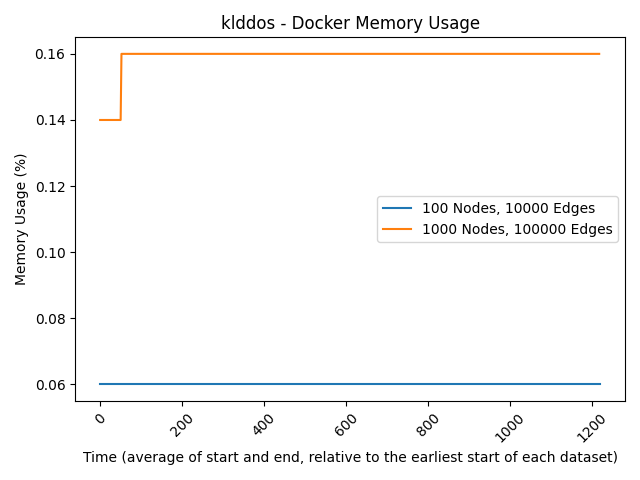
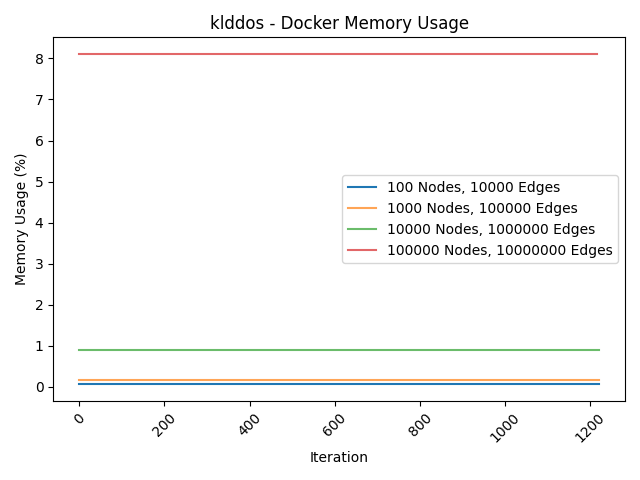
run through 100000N 10000000E

diff --git a/docker/resultViz.py b/docker/resultViz.py
@@ -9,15 +9,19 @@ def read_docker_stats_csv(file_path):
     df['Time'] = (df['start'] + df['end']) / 2
     return df
 
-def plot_cpu_usage(df1, df2, container_name, node_edge_counts, min_start_time1, min_start_time2):
+def plot_cpu_usage(df1, df2, df3, df4, container_name, node_edge_counts, min_start_time1, min_start_time2, min_start_time3, min_start_time4):
     container_df1 = df1[df1['Name'] == container_name]
     container_df2 = df2[df2['Name'] == container_name]
+    container_df3 = df3[df3['Name'] == container_name]
+    container_df4 = df4[df4['Name'] == container_name]
     
     plt.figure()
     plt.plot(container_df1['Time'] - min_start_time1, container_df1['CPU %'], label=f"{node_edge_counts[0]} Nodes, {node_edge_counts[1]} Edges")
-    plt.plot(container_df2['Time'] - min_start_time2, container_df2['CPU %'], label=f"{node_edge_counts[2]} Nodes, {node_edge_counts[3]} Edges")
-    
-    plt.xlabel('Time (average of start and end, relative to the earliest start of each dataset)')
+    plt.plot(container_df2['Time'] - min_start_time2, container_df2['CPU %'], label=f"{node_edge_counts[2]} Nodes, {node_edge_counts[3]} Edges", alpha=.7)
+    plt.plot(container_df3['Time'] - min_start_time3, container_df3['CPU %'], label=f"{node_edge_counts[4]} Nodes, {node_edge_counts[5]} Edges", alpha=.7)
+    plt.plot(container_df4['Time'] - min_start_time4, container_df4['CPU %'], label=f"{node_edge_counts[6]} Nodes, {node_edge_counts[7]} Edges", alpha=.7)
+
+    plt.xlabel('Iteration')
     plt.ylabel('CPU Usage (%)')
     plt.title(f'{container_name} - Docker CPU Usage')
     plt.legend()
@@ -25,21 +29,117 @@ def plot_cpu_usage(df1, df2, container_name, node_edge_counts, min_start_time1, 
     plt.tight_layout()
     plt.savefig(f'{container_name}_cpu_usage_comparison.png')
 
-def plot_memory_usage(df1, df2, container_name, node_edge_counts, min_start_time1, min_start_time2):
+
+def plot_memory_usage(df1, df2, df3, df4, container_name, node_edge_counts, min_start_time1, min_start_time2, min_start_time3, min_start_time4):
     container_df1 = df1[df1['Name'] == container_name]
     container_df2 = df2[df2['Name'] == container_name]
-    
+    container_df3 = df3[df3['Name'] == container_name]
+    container_df4 = df4[df4['Name'] == container_name]
+
     plt.figure()
     plt.plot(container_df1['Time'] - min_start_time1, container_df1['Mem %'], label=f"{node_edge_counts[0]} Nodes, {node_edge_counts[1]} Edges")
-    plt.plot(container_df2['Time'] - min_start_time2, container_df2['Mem %'], label=f"{node_edge_counts[2]} Nodes, {node_edge_counts[3]} Edges")
-    
-    plt.xlabel('Time (average of start and end, relative to the earliest start of each dataset)')
+    plt.plot(container_df2['Time'] - min_start_time2, container_df2['Mem %'], label=f"{node_edge_counts[2]} Nodes, {node_edge_counts[3]} Edges", alpha=.7)
+    plt.plot(container_df3['Time'] - min_start_time3, container_df3['Mem %'], label=f"{node_edge_counts[4]} Nodes, {node_edge_counts[5]} Edges", alpha=.7)
+    plt.plot(container_df4['Time'] - min_start_time4, container_df4['Mem %'], label=f"{node_edge_counts[6]} Nodes, {node_edge_counts[7]} Edges", alpha=.7)
+
+    plt.xlabel('Iteration')
     plt.ylabel('Memory Usage (%)')
     plt.title(f'{container_name} - Docker Memory Usage')
     plt.legend()
     plt.xticks(rotation=45)
     plt.tight_layout()
     plt.savefig(f'{container_name}_memory_usage_comparison.png')
+
+
+def plot_cpu_usage_rolling_avg(df1, df2, df3, df4, container_name, node_edge_counts, min_start_time1, min_start_time2, min_start_time3, min_start_time4, window_size=100):
+    container_df1 = df1[df1['Name'] == container_name]
+    container_df2 = df2[df2['Name'] == container_name]
+    container_df3 = df3[df3['Name'] == container_name]
+    container_df4 = df4[df4['Name'] == container_name]
+
+    rolling_avg1 = container_df1['CPU %'].rolling(window=window_size).mean()
+    rolling_avg2 = container_df2['CPU %'].rolling(window=window_size).mean()
+    rolling_avg3 = container_df3['CPU %'].rolling(window=window_size).mean()
+    rolling_avg4 = container_df4['CPU %'].rolling(window=window_size).mean()
+
+    plt.figure()
+    plt.plot(container_df1['Time'] - min_start_time1, rolling_avg1, label=f"{node_edge_counts[0]} Nodes, {node_edge_counts[1]} Edges")
+    plt.plot(container_df2['Time'] - min_start_time2, rolling_avg2, label=f"{node_edge_counts[2]} Nodes, {node_edge_counts[3]} Edges", alpha=.7)
+    plt.plot(container_df3['Time'] - min_start_time3, rolling_avg3, label=f"{node_edge_counts[4]} Nodes, {node_edge_counts[5]} Edges", alpha=.7)
+    plt.plot(container_df4['Time'] - min_start_time4, rolling_avg4, label=f"{node_edge_counts[6]} Nodes, {node_edge_counts[7]} Edges", alpha=.7)
+
+    plt.xlabel('Iteration')
+    plt.ylabel('CPU Usage Rolling Average (%)')
+    plt.title(f'{container_name} - Docker CPU Usage Rolling Average')
+    plt.legend()
+    plt.xticks(rotation=45)
+    plt.tight_layout()
+    plt.savefig(f'{container_name}_cpu_usage_rolling_avg_comparison.png')
+def plot_memory_usage_rolling_avg(df1, df2, df3, df4, container_name, node_edge_counts, min_start_time1, min_start_time2, min_start_time3, min_start_time4, window_size=100):
+    container_df1 = df1[df1['Name'] == container_name]
+    container_df2 = df2[df2['Name'] == container_name]
+    container_df3 = df3[df3['Name'] == container_name]
+    container_df4 = df4[df4['Name'] == container_name]
+
+    rolling_avg1 = container_df1['Mem %'].rolling(window=window_size).mean()
+    rolling_avg2 = container_df2['Mem %'].rolling(window=window_size).mean()
+    rolling_avg3 = container_df3['Mem %'].rolling(window=window_size).mean()
+    rolling_avg4 = container_df4['Mem %'].rolling(window=window_size).mean()
+
+    plt.figure()
+    plt.plot(container_df1['Time'] - min_start_time1, rolling_avg1, label=f"{node_edge_counts[0]} Nodes, {node_edge_counts[1]} Edges")
+    plt.plot(container_df2['Time'] - min_start_time2, rolling_avg2, label=f"{node_edge_counts[2]} Nodes, {node_edge_counts[3]} Edges", alpha=.7)
+    plt.plot(container_df3['Time'] - min_start_time3, rolling_avg3, label=f"{node_edge_counts[4]} Nodes, {node_edge_counts[5]} Edges", alpha=.7)
+    plt.plot(container_df4['Time'] - min_start_time4, rolling_avg4, label=f"{node_edge_counts[6]} Nodes, {node_edge_counts[7]} Edges", alpha=.7)
+
+    plt.xlabel('Iteration')
+    plt.ylabel('Memory Usage Rolling Average (%)')
+    plt.title(f'{container_name} - Docker Memory Usage Rolling Average')
+    plt.legend()
+    plt.xticks(rotation=45)
+    plt.tight_layout()
+    plt.savefig(f'{container_name}_memory_usage_rolling_avg_comparison.png')
+
+
+def calculate_second_half_average(df1, df2, df3, df4):
+    # calculate the mid-point time for each dataset
+    mid_time1 = (df1['start'].max() + df1['end'].min()) / 2
+    mid_time2 = (df2['start'].max() + df2['end'].min()) / 2
+    mid_time3 = (df3['start'].max() + df3['end'].min()) / 2
+    mid_time4 = (df4['start'].max() + df4['end'].min()) / 2
+    
+    unique_container_names = set(df1['Name'].unique()).union(set(df2['Name'].unique())).union(set(df3['Name'].unique())).union(set(df4['Name'].unique()))
+    
+    for container_name in unique_container_names:
+        container_df1 = df1[df1['Name'] == container_name]
+        container_df2 = df2[df2['Name'] == container_name]
+        container_df3 = df3[df3['Name'] == container_name]
+        container_df4 = df4[df4['Name'] == container_name]
+        
+        # filter each dataset to include only entries after the mid-point time
+        container_df1_second_half = container_df1[container_df1['start'] > mid_time1]
+        container_df2_second_half = container_df2[container_df2['start'] > mid_time2]
+        container_df3_second_half = container_df3[container_df3['start'] > mid_time3]
+        container_df4_second_half = container_df4[container_df4['start'] > mid_time4]
+        
+        # calculate the average CPU and memory usage for each dataset in the second half
+        avg_cpu_container_df1 = container_df1_second_half['CPU %'].mean()
+        avg_mem_container_df1 = container_df1_second_half['Mem %'].mean()
+        avg_cpu_container_df2 = container_df2_second_half['CPU %'].mean()
+        avg_mem_container_df2 = container_df2_second_half['Mem %'].mean()
+        avg_cpu_container_df3 = container_df3_second_half['CPU %'].mean()
+        avg_mem_container_df3 = container_df3_second_half['Mem %'].mean()
+        avg_cpu_container_df4 = container_df4_second_half['CPU %'].mean()
+        avg_mem_container_df4 = container_df4_second_half['Mem %'].mean()
+        
+        # print the results
+        print(f"Average CPU usage in the second half of {container_name} - dataset 1: {avg_cpu_container_df1:.2f}%")
+        print(f"Average memory usage in the second half of {container_name} - dataset 1: {avg_mem_container_df1:.2f}%")
+        print(f"Average CPU usage in the second half of {container_name} - dataset 2: {avg_cpu_container_df2:.2f}%")
+        print(f"Average memory usage in the second half of {container_name} - dataset 2: {avg_mem_container_df2:.2f}%")
+        print(f"Average CPU usage in the second half of {container_name} - dataset 3: {avg_cpu_container_df3:.2f}%")
+        print(f"Average memory usage in the second half of {container_name} - dataset 3: {avg_mem_container_df3:.2f}%")
+        print(f"Average CPU usage in the second half of {container_name} - dataset 4: {avg_cpu_container_df4:.2f}%")
 
 def main():
     file_path1 = input("Enter the path to the first CSV file: ")
@@ -48,78 +148,37 @@ def main():
     file_path2 = input("Enter the path to the second CSV file: ")
     df2 = read_docker_stats_csv(file_path2)
     
-    node_count1 = int(input("Enter the node count for the first dataset: "))
-    edge_count1 = int(input("Enter the edge count for the first dataset: "))
-    node_count2 = int(input("Enter the node count for the second dataset: "))
-    edge_count2 = int(input("Enter the edge count for the second dataset: "))
-    
-    min_start_time1 = df1['start'].min
-import pandas as pd
-import matplotlib.pyplot as plt
+    file_path3 = input("Enter the path to the third CSV file: ")
+    df3 = read_docker_stats_csv(file_path3)
 
-def read_docker_stats_csv(file_path):
-    column_names = ['Container', 'Name', 'CPU %', 'Mem Usage', 'Net I/O', 'Block I/O', 'Mem %', 'PIDs', 'start', 'end']
-    df = pd.read_csv(file_path, names=column_names, skiprows=1)
-    df['CPU %'] = df['CPU %'].str.rstrip('%').astype('float')
-    df['Mem %'] = df['Mem %'].str.rstrip('%').astype('float')
-    df['Time'] = (df['start'] + df['end']) / 2
-    return df
-
-def plot_cpu_usage(df1, df2, container_name, node_edge_counts, min_start_time1, min_start_time2):
-    container_df1 = df1[df1['Name'] == container_name]
-    container_df2 = df2[df2['Name'] == container_name]
-    
-    plt.figure()
-    plt.plot(container_df1['Time'] - min_start_time1, container_df1['CPU %'], label=f"{node_edge_counts[0]} Nodes, {node_edge_counts[1]} Edges")
-    plt.plot(container_df2['Time'] - min_start_time2, container_df2['CPU %'], label=f"{node_edge_counts[2]} Nodes, {node_edge_counts[3]} Edges")
-    
-    plt.xlabel('Time (average of start and end, relative to the earliest start of each dataset)')
-    plt.ylabel('CPU Usage (%)')
-    plt.title(f'{container_name} - Docker CPU Usage')
-    plt.legend()
-    plt.xticks(rotation=45)
-    plt.tight_layout()
-    plt.savefig(f'{container_name}_cpu_usage_comparison.png')
-
-def plot_memory_usage(df1, df2, container_name, node_edge_counts, min_start_time1, min_start_time2):
-    container_df1 = df1[df1['Name'] == container_name]
-    container_df2 = df2[df2['Name'] == container_name]
-    
-    plt.figure()
-    plt.plot(container_df1['Time'] - min_start_time1, container_df1['Mem %'], label=f"{node_edge_counts[0]} Nodes, {node_edge_counts[1]} Edges")
-    plt.plot(container_df2['Time'] - min_start_time2, container_df2['Mem %'], label=f"{node_edge_counts[2]} Nodes, {node_edge_counts[3]} Edges")
-    
-    plt.xlabel('Time (average of start and end, relative to the earliest start of each dataset)')
-    plt.ylabel('Memory Usage (%)')
-    plt.title(f'{container_name} - Docker Memory Usage')
-    plt.legend()
-    plt.xticks(rotation=45)
-    plt.tight_layout()
-    plt.savefig(f'{container_name}_memory_usage_comparison.png')
-
-def main():
-    file_path1 = input("Enter the path to the first CSV file: ")
-    df1 = read_docker_stats_csv(file_path1)
-
-    file_path2 = input("Enter the path to the second CSV file: ")
-    df2 = read_docker_stats_csv(file_path2)
+    file_path4 = input("Enter the path to the fourth CSV file: ")
+    df4 = read_docker_stats_csv(file_path4)
     
     node_count1 = int(input("Enter the node count for the first dataset: "))
     edge_count1 = int(input("Enter the edge count for the first dataset: "))
     node_count2 = int(input("Enter the node count for the second dataset: "))
     edge_count2 = int(input("Enter the edge count for the second dataset: "))
+    node_count3 = int(input("Enter the node count for the third dataset: "))
+    edge_count3 = int(input("Enter the edge count for the third dataset: "))
+    node_count4 = int(input("Enter the node count for the fourth dataset: "))
+    edge_count4 = int(input("Enter the edge count for the fourth dataset: "))
     
     min_start_time1 = df1['start'].min()
     min_start_time2 = df2['start'].min()
+    min_start_time3 = df3['start'].min()
+    min_start_time4 = df4['start'].min()
 
-    unique_container_names = set(df1['Name'].unique()).union(set(df2['Name'].unique()))
+    unique_container_names = set(df1['Name'].unique()).union(set(df2['Name'].unique())).union(set(df3['Name'].unique())).union(set(df4['Name'].unique()))
 
     for container_name in unique_container_names:
-        plot_cpu_usage(df1, df2, container_name, (node_count1, edge_count1, node_count2, edge_count2), min_start_time1, min_start_time2)
-        plot_memory_usage(df1, df2, container_name, (node_count1, edge_count1, node_count2, edge_count2), min_start_time1, min_start_time2)
+        plot_cpu_usage(df1, df2, df3, df4, container_name, (node_count1, edge_count1, node_count2, edge_count2, node_count3, edge_count3, node_count4, edge_count4), min_start_time1, min_start_time2, min_start_time3, min_start_time4)
+        plot_memory_usage(df1, df2, df3, df4, container_name, (node_count1, edge_count1, node_count2, edge_count2, node_count3, edge_count3, node_count4, edge_count4), min_start_time1, min_start_time2, min_start_time3, min_start_time4)
+        plot_cpu_usage_rolling_avg(df1, df2, df3, df4, container_name, (node_count1, edge_count1, node_count2, edge_count2, node_count3, edge_count3, node_count4, edge_count4), min_start_time1, min_start_time2, min_start_time3, min_start_time4)
+        plot_memory_usage_rolling_avg(df1, df2, df3, df4, container_name, (node_count1, edge_count1, node_count2, edge_count2, node_count3, edge_count3, node_count4, edge_count4), min_start_time1, min_start_time2, min_start_time3, min_start_time4)
 
-    print("Graphs saved for each container as [container_name]_cpu_usage_comparison.png and [container_name]_memory_usage_comparison.png")
-
+    print("Graphs saved for each container as [container_name]_cpu_usage_comparison.png, [container_name]_memory_usage_comparison.png, [container_name]_cpu_usage_rolling_avg_comparison.png, and [container_name]_memory_usage_rolling_avg_comparison.png")
+    calculate_second_half_average(df1, df2, df3, df4)
 if __name__ == "__main__":
     main()
+
 
